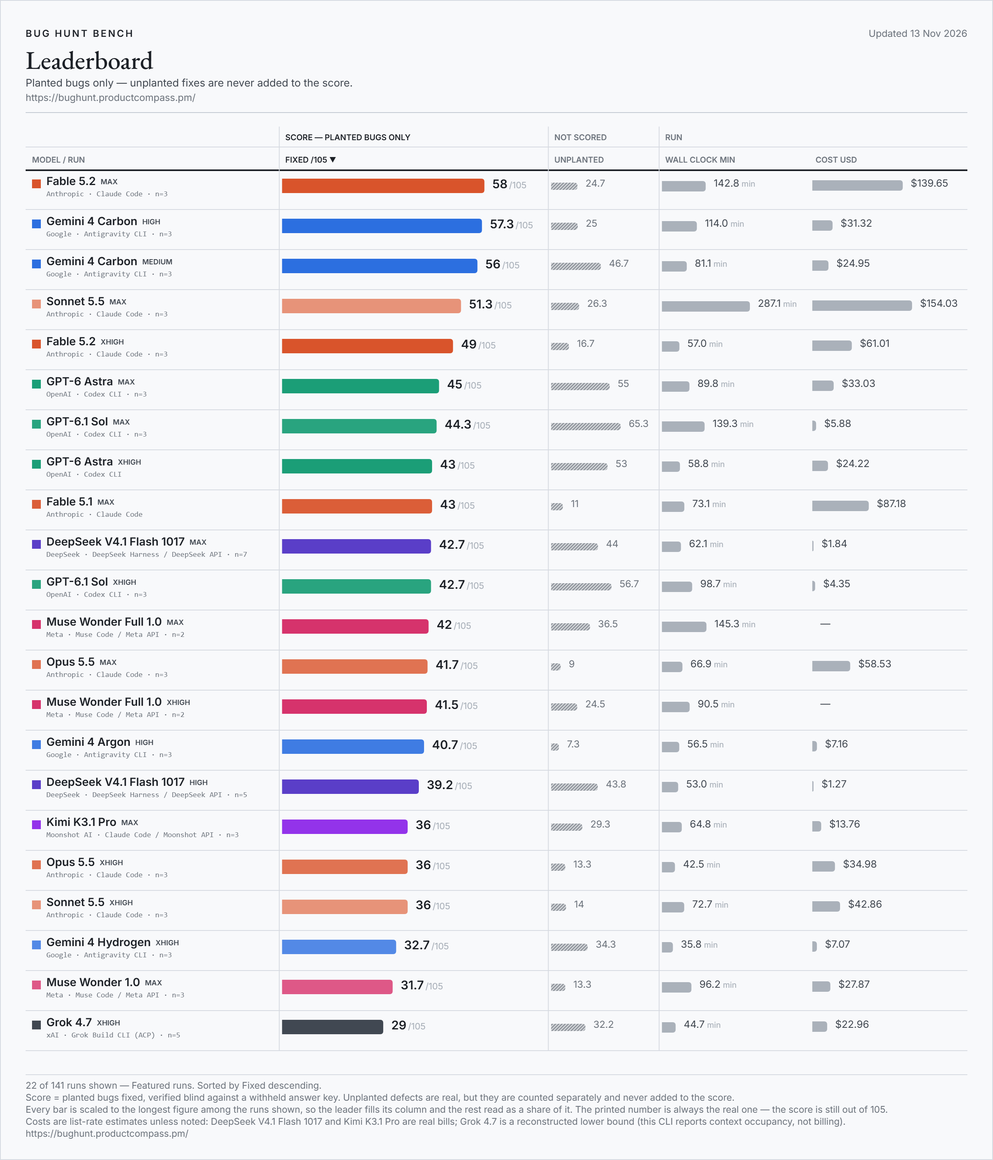
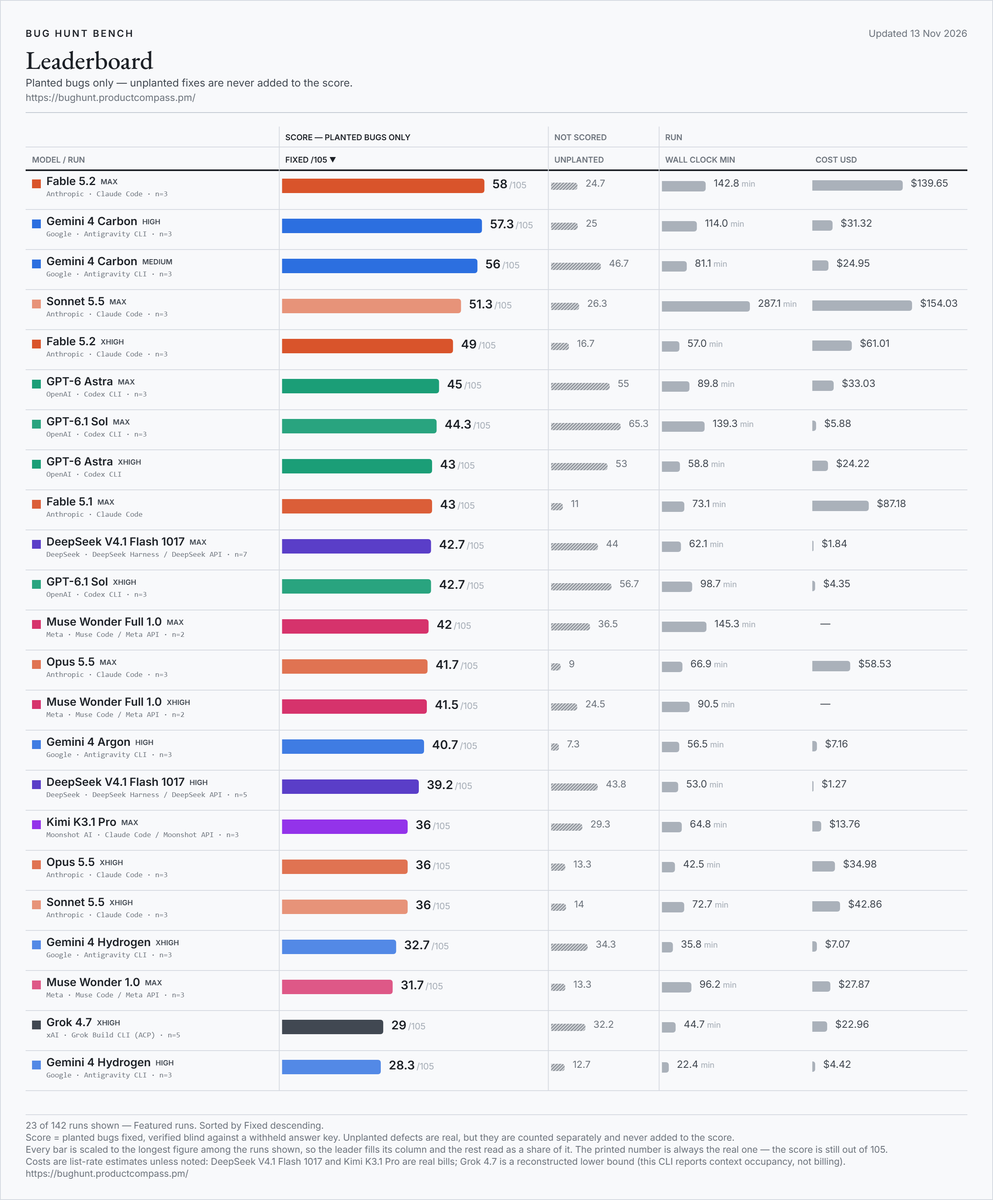
bug hunt bench: Gemini 4 Hydrogen (high effort, Antigravity CLI) - mean of 3 (28.3/105)

Changed region(s): [[0.031, 0.0311, 0.9625, 0.9012], [0.031, 0.9323, 0.7452, 0.9945], [0.8073, 0.6215, 0.9004, 0.9012]]

diff --git a/index.html b/index.html
@@ -22,14 +22,14 @@
 <meta property="og:title" content="Bug Hunt Bench — frontier coding models against real planted bugs">
 <meta property="og:description" content="A blind-graded benchmark of frontier coding models on real bugs planted in two production codebases. The score counts planted bugs only; extra fixes are tracked separately and never added.">
 <meta property="og:url" content="https://bughunt.productcompass.pm/">
-<meta property="og:image" content="https://bughunt.productcompass.pm/og-image.png?v=2026-11-13-add9c0be">
+<meta property="og:image" content="https://bughunt.productcompass.pm/og-image.png?v=2026-11-13-952f5194">
 <meta property="og:image:width" content="1200">
 <meta property="og:image:height" content="630">
 <meta property="og:image:alt" content="Bug Hunt Bench leaderboard">
 <meta name="twitter:card" content="summary_large_image">
 <meta name="twitter:title" content="Bug Hunt Bench — frontier coding models against real planted bugs">
 <meta name="twitter:description" content="A blind-graded benchmark of frontier coding models on real bugs planted in two production codebases. The score counts planted bugs only.">
-<meta name="twitter:image" content="https://bughunt.productcompass.pm/og-image.png?v=2026-11-13-add9c0be">
+<meta name="twitter:image" content="https://bughunt.productcompass.pm/og-image.png?v=2026-11-13-952f5194">
 <meta name="twitter:creator" content="@PawelHuryn">
 
 <link rel="icon" href="/assets/favicon.svg" type="image/svg+xml">

diff --git a/method.html b/method.html
@@ -20,14 +20,14 @@
 <meta property="og:title" content="Method, caveats and definitions — Bug Hunt Bench">
 <meta property="og:description" content="How Bug Hunt Bench is run and graded, what the board cannot tell you, and what every column on it means.">
 <meta property="og:url" content="https://bughunt.productcompass.pm/method">
-<meta property="og:image" content="https://bughunt.productcompass.pm/og-image.png?v=2026-11-13-add9c0be">
+<meta property="og:image" content="https://bughunt.productcompass.pm/og-image.png?v=2026-11-13-952f5194">
 <meta property="og:image:width" content="1200">
 <meta property="og:image:height" content="630">
 <meta property="og:image:alt" content="Bug Hunt Bench leaderboard">
 <meta name="twitter:card" content="summary_large_image">
 <meta name="twitter:title" content="Method, caveats and definitions — Bug Hunt Bench">
 <meta name="twitter:description" content="How Bug Hunt Bench is run and graded, what the board cannot tell you, and what every column on it means.">
-<meta name="twitter:image" content="https://bughunt.productcompass.pm/og-image.png?v=2026-11-13-add9c0be">
+<meta name="twitter:image" content="https://bughunt.productcompass.pm/og-image.png?v=2026-11-13-952f5194">
 <meta name="twitter:creator" content="@PawelHuryn">
 
 <link rel="icon" href="/assets/favicon.svg" type="image/svg+xml">

diff --git a/README.md b/README.md
@@ -7,9 +7,9 @@
 If the numbers save you a benchmark run of your own, **star this repo** — that is what keeps the bench findable, and new models are added as they ship.
 
 <!-- leaderboard:start -->
-![Bug Hunt Bench leaderboard, the featured runs, updated Nov 13, 2026](assets/leaderboard.png?v=2026-11-13-f5614375)
+![Bug Hunt Bench leaderboard, the featured runs, updated Nov 13, 2026](assets/leaderboard.png?v=2026-11-13-cc1ffa5a)
 
-**Updated Nov 13, 2026 · 216 rows from 329 scored runs · 52 models · 23 of 105 bugs have never been fixed by any model.**
+**Updated Nov 13, 2026 · 217 rows from 332 scored runs · 52 models · 23 of 105 bugs have never been fixed by any model.**
 
 **Current leader:** Fable 5.2 at `max` effort — **58 / 105** (23/45 on repo 1, 35/60 on repo 2).
 
@@ -76,88 +76,89 @@ If the numbers save you a benchmark run of your own, **star this repo** — that
 | 57 | Fable 5.1 | Claude Code | xhigh | 1 | **29** | 13 | 16 | 4 | 60 min | $53.61 | 2026-09-10 |
 | 58 | Fable 5 | Claude Code | max | 1 | **29** | 12 | 17 | 5 | 57 min | $112.40 | 2026-08-01 |
 | 59 | Grok 4.6 | Grok Build CLI (ACP) | xhigh | 3 | **28.7** | 11.7 | 17 | 18 | 43 min | $18.60 floor | 2026-09-14 |
-| 60 | GPT-6 Astra | Codex CLI | low | 1 | **27** | 18 | 9 | 25 | 32 min | $11.69 | 2026-09-05 |
-| 61 | Opus 5 | Claude Code | max | 1 | **27** | 13 | 14 | 2 | 60 min | $54.94 | 2026-08-01 |
-| 62 | Grok 4.7 | Grok Build CLI (ACP) | medium | 3 | **26.7** | 12 | 14.7 | 22.7 | 31 min | $16.76 floor | 2026-09-21 |
-| 63 | Qwen3.8-Flash | Claude Code / Alibaba API | max | 1 | **26** | 13 | 13 | 7 | 97 min | $1.81 | 2026-09-11 |
-| 64 | Opus 5 | Claude Code | xhigh | 1 | **26** | 14 | 12 | 3 | 50 min | $63.25 | 2026-08-28 |
-| 65 | Qwen3.8-Max | Claude Code / Alibaba API | max | 3 | **25.7** | 12.3 | 13.3 | 7 | 117 min | $26.76 | 2026-09-15 |
-| 66 | GPT-6 Sol | Codex CLI | xhigh | 1 | **25** | 10 | 15 | 24 | 51 min | $7.67 | 2026-09-23 |
-| 67 | Opus 5 | Claude Code | medium | 1 | **24** | 11 | 13 | 4 | 30 min | $37.40 | 2026-08-27 |
-| 68 | Fable 5 | Claude Code | high | 1 | **24** | 9 | 15 | 3 | 31 min | $74.52 | 2026-07-26 |
-| 69 | MiMo-V2.6-Flash | Claude Code / OpenRouter | default | 3 | **23.3** | 8 | 15.3 | 7.3 | 71 min | $0.49 bill | 2026-09-22 |
-| 70 | Sonnet 5.5 | Claude Code | medium | 3 | **23.3** | 8.7 | 14.7 | 8.7 | 17 min | $11.11 | 2026-09-30 |
-| 71 | Qwen3.8-Flash | Claude Code / Alibaba API | low | 1 | **23** | 11 | 12 | 7 | 98 min | $1.37 | 2026-09-11 |
-| 72 | GPT-5.6 Luna | Codex CLI | xhigh | 1 | **23** | 10 | 13 | 53 | 136 min | $2.50 | 2026-08-28 |
-| 73 | Grok 4.6 | Grok Build CLI (ACP) | high | 1 | **23** | 7 | 16 | 16 | 33 min | $15.73 floor | 2026-08-28 |
-| 74 | MiMo-V2.6-Pro | Claude Code / OpenRouter | default | 3 | **22.7** | 11.3 | 11.3 | 5.3 | 91 min | $0.86 bill | 2026-09-22 |
-| 75 | GPT-6.1 Sol | Codex CLI | low | 2 | **22.5** | 11.5 | 11 | 24 | 25 min | $1.34 | 2026-10-01 |
-| 76 | Opus 5.5 | Claude Code | low | 3 | **22.3** | 11.3 | 11 | 9.7 | 12 min | $8.34 | 2026-09-23 |
-| 77 | Grok 4.6 | Grok Build CLI (ACP) | medium | 1 | **22** | 9 | 13 | 11 | 26 min | $5.80 floor | 2026-08-28 |
-| 78 | Gemini 3.7 Flash | Gemini CLI (retired) + model-pinning gateway | high | 1 | **22** | 8 | 14 | 4 | 97 min | $8.43 | 2026-08-24 |
-| 79 | DeepSeek V4.1 Flash | Claude Code / DeepSeek API | max | 3 | **21.7** | 11.3 | 10.3 | 6.7 | 56 min | $0.78 bill | 2026-09-15 |
-| 80 | Haiku 5.5 | Claude Code | max | 2 | **21.5** | 10 | 11.5 | 9 | 32 min | $5.83 | 2026-10-07 |
-| 81 | Fable 5.1 | Claude Code | medium | 1 | **21** | 8 | 13 | 3 | 23 min | $23.73 | 2026-09-10 |
-| 82 | Kimi K3 | Claude Code / OpenRouter | default | 1 | **21** | 4 | 17 | 6 | 108 min | $25.27 | 2026-07-26 |
-| 83 | Opus 5 | Claude Code | high | 1 | **21** | 11 | 10 | 6 | 37 min | $41.51 | 2026-07-26 |
-| 84 | Muse Spark 1.3 | Muse Code / Meta API | xhigh | 3 | **20.3** | 8 | 12.3 | 13.3 | 64 min | $13.71 | 2026-09-14 |
-| 85 | GPT-6 Sol | Codex CLI | high | 1 | **20** | 10 | 10 | 15 | 34 min | $4.16 | 2026-09-23 |
-| 86 | GPT-5.6 Terra | Codex CLI | xhigh | 1 | **20** | 9 | 11 | 29 | 57 min | $8.98 | 2026-08-28 |
-| 87 | Grok 4.7 | Grok Build CLI (ACP) | high | 3 | **19.3** | 8.7 | 10.7 | 15.7 | 38 min | $12.29 floor | 2026-09-21 |
-| 88 | DeepSeek V4.1 Flash | Claude Code / DeepSeek API | high | 1 | **19** | 9 | 10 | 4 | 26 min | $0.31 bill | 2026-09-10 |
-| 89 | Sonnet 5.5 | Claude Code | low | 3 | **19** | 6.7 | 12.3 | 8 | 8 min | $5.73 | 2026-09-30 |
-| 90 | GLM-5.3 | Claude Code / Z.ai API | max | 1 | **19** | 9 | 10 | 2 | 40 min | $15.93 | 2026-09-10 |
-| 91 | Muse Spark 1.3 | Muse Code / Meta API | high | 3 | **18.7** | 8.7 | 10 | 19.3 | 76 min | $12.94 | 2026-09-14 |
-| 92 | GPT-6 Luna | Codex CLI | max | 3 | **18.3** | 6.3 | 12 | 22.7 | 99 min | $0.52 | 2026-09-23 |
-| 93 | Haiku 5.5 | Claude Code | xhigh | 3 | **18.3** | 9 | 9.3 | 6.7 | 24 min | $4.80 | 2026-10-07 |
-| 94 | MiMo-V2.6-Pro | Claude Code / Xiaomi first-party | enabled | 1 | **18** | 9 | 9 | 4 | 75 min | $0.59 | 2026-09-22 |
-| 95 | Hy4 Preview | Claude Code / OpenRouter | default | 1 | **18** | 9 | 9 | 2 | 68 min | $3.13 bill | 2026-08-28 |
-| 96 | GPT-5.6 Terra | Codex CLI | high | 1 | **18** | 7 | 11 | 17 | 28 min | $5.89 | 2026-08-27 |
-| 97 | Gemini 3.8 Flash | Antigravity CLI | high | 3 | **18** | 6.7 | 11.3 | 4 | 39 min | $11.03 | 2026-09-15 |
-| 98 | GLM-5.3 Flash | Claude Code / Z.ai API | max | 3 | **17.7** | 9.3 | 8.3 | 3.3 | 63 min | $1.03 | 2026-09-15 |
-| 99 | Grok 4.5 | Grok Build CLI (ACP) | high | 1 | **17** | 5 | 12 | 10 | 28 min | $8.50 floor | 2026-08-06 |
-| 100 | Muse Spark 1.2 | Claude Code / Meta API | xhigh | 1 | **17** | 6 | 11 | 12 | 36 min | $13.99 | 2026-08-06 |
-| 101 | Ox Alpha (stealth) | Claude Code / OpenRouter | default | 1 | **16** | 8 | 8 | 3 | 59 min | free | 2026-08-25 |
-| 102 | GLM-5.3 Flash | Claude Code / Z.ai API | high | 1 | **16** | 9 | 7 | 4 | 62 min | $0.94 | 2026-09-13 |
-| 103 | DeepSeek V4-Pro | Claude Code / DeepSeek API | max | 1 | **16** | 8 | 8 | 4 | 37 min | $1.89 bill | 2026-09-10 |
-| 104 | Haiku 5.5 | Claude Code | high | 2 | **16** | 5 | 11 | 4 | 19 min | $3.56 | 2026-10-07 |
-| 105 | Gemini 3.7 Flash | Antigravity CLI | high | 1 | **16** | 4 | 12 | 2 | 23 min | $6.36 | 2026-08-28 |
-| 106 | Grok 4.7 | Grok Build CLI (ACP) | low | 3 | **15.7** | 10.3 | 5.3 | 18.3 | 22 min | $9.36 floor | 2026-09-21 |
-| 107 | GPT-5.6 Terra | Codex CLI | medium | 1 | **15** | 4 | 11 | 6 | 20 min | $3.87 | 2026-08-27 |
-| 108 | Grok 4.6 | Grok Build CLI (ACP) | low | 1 | **15** | 6 | 9 | 9 | 18 min | $4.14 floor | 2026-08-27 |
-| 109 | Qwen3.8-27B | Claude Code / Alibaba API | xhigh | 3 | **15** | 5.7 | 9.3 | 2.3 | 57 min | $5.55 | 2026-09-15 |
-| 110 | Mistral Large 4 | Claude Code / OpenRouter | high | 3 | **15** | 5 | 10 | 3.3 | 111 min | $11.95 bill | 2026-10-07 |
-| 111 | Opus 4.8 | Claude Code | max | 1 | **15** | 6 | 9 | 3 | 109 min | $58.11 | 2026-09-10 |
-| 112 | GPT-6 Luna | Codex CLI | xhigh | 1 | **14** | 4 | 10 | 12 | 57 min | $0.39 | 2026-09-23 |
-| 113 | DeepSeek V4-Flash | Claude Code / OpenRouter | default | 1 | **14** | 6 | 8 | 0 | 48 min | $1.52 bill | 2026-08-01 |
-| 114 | GPT-6 Sol | Codex CLI | medium | 1 | **14** | 3 | 11 | 13 | 24 min | $2.39 | 2026-09-23 |
-| 115 | GPT-5.6 Luna | Codex CLI | high | 1 | **13** | 5 | 8 | 22 | 64 min | $0.57 | 2026-07-31 |
-| 116 | GLM-5.3 Flash | Claude Code / OpenRouter | default | 1 | **13** | 6 | 7 | 4 | 57 min | $0.79 bill | 2026-08-27 |
-| 117 | DeepSeek V4-Pro | Claude Code / DeepSeek API | high | 1 | **13** | 4 | 9 | 1 | 27 min | $1.08 bill | 2026-09-10 |
-| 118 | Muse Spark 1.3 | Muse Code / Meta API | medium | 3 | **13** | 5.3 | 7.7 | 17.3 | 58 min | $9.24 | 2026-09-14 |
-| 119 | Haiku 5.5 | Claude Code | medium | 1 | **12** | 5 | 7 | 4 | 16 min | $2.66 | 2026-10-08 |
-| 120 | GPT-6.1 Terra | Codex CLI | xhigh | 3 | **11.3** | 5 | 6.3 | 17 | 16 min | $0.75 | 2026-10-26 |
-| 121 | Haiku 5.5 | Claude Code | low | 1 | **11** | 4 | 7 | 2 | 9 min | $1.61 | 2026-10-08 |
-| 122 | Qwen3.8-27B 8-bit | Claude Code / OpenRouter | default | 3 | **10.7** | 3.7 | 7 | 1.7 | 57 min | $2.97 bill | 2026-09-16 |
-| 123 | GPT-6.1 Terra | Codex CLI | high | 3 | **9.7** | 4.3 | 5.3 | 6.7 | 13 min | $0.56 | 2026-10-26 |
-| 124 | Muse Spark 1.3 | Muse Code / Meta API | low | 3 | **9.7** | 5 | 4.7 | 6.7 | 36 min | $5.61 | 2026-09-14 |
-| 125 | GPT-6 Luna | Codex CLI | high | 1 | **9** | 2 | 7 | 9 | 24 min | $0.13 | 2026-09-23 |
-| 126 | GPT-5.6 Luna | Codex CLI | medium | 1 | **9** | 5 | 4 | 5 | 15 min | $0.33 | 2026-08-27 |
-| 127 | GLM-5.3 Flash | Claude Code / Z.ai API | low | 1 | **9** | 7 | 2 | 4 | 29 min | $0.42 | 2026-09-13 |
-| 128 | Sonnet 5 | Claude Code | high | 1 | **9** | 1 | 8 | 4 | 33 min | $11.38 | 2026-07-26 |
-| 129 | Sonnet 5 | Claude Code | max | 1 | **9** | 3 | 6 | 3 | 61 min | $17.96 | 2026-09-10 |
-| 130 | Opus 4.8 | Claude Code | high | 1 | **9** | 2 | 7 | 1 | 35 min | $21.30 | 2026-07-26 |
-| 131 | GPT-6.1 Terra | Codex CLI | medium | 3 | **7.3** | 3.7 | 3.7 | 7.3 | 10 min | $0.31 | 2026-10-27 |
-| 132 | GPT-6.1 Terra | Codex CLI | low | 3 | **6** | 2.7 | 3.3 | 5 | 10 min | $0.30 | 2026-10-27 |
-| 133 | GPT-6 Sol | Codex CLI | low | 1 | **6** | 3 | 3 | 5 | 11 min | $1.08 | 2026-09-23 |
-| 134 | GPT-6 Luna | Codex CLI | medium | 1 | **4** | 2 | 2 | 0 | 9 min | $0.06 | 2026-09-23 |
-| 135 | GPT-5.6 Luna | Codex CLI | low | 1 | **4** | 0 | 4 | 1 | 6 min | $0.10 | 2026-08-27 |
-| 136 | GPT-6 Luna | Codex CLI | low | 1 | **4** | 1 | 3 | 9 | 19 min | $0.20 | 2026-09-23 |
-| 137 | Gemma 4 31B | Claude Code / OpenRouter | default | 1 | **4** | 1 | 3 | 2 | 222 min | $8.61 bill | 2026-09-16 |
-| 138 | Gemma 4 31B 4-bit | Claude Code / OpenRouter | default | 1 | **3** | 1 | 2 | 2 | 25 min | $0.56 bill | 2026-09-16 |
-| 139 | Haiku 4.5 | Claude Code | default | 2 | **1.5** | 0.5 | 1 | 2.5 | 17 min | $2.22 | 2026-10-08 |
-| 140 | gpt-oss-120b | Claude Code / OpenRouter | default | 3 | **0** | 0 | 0 | 0.3 | 4 min | $0.11 bill | 2026-09-15 |
-| 141 | gpt-oss-20b | Claude Code / OpenRouter | default | 3 | **0** | 0 | 0 | 0 | 7 min | $0.11 bill | 2026-09-15 |
+| 60 | Gemini 4 Hydrogen | Antigravity CLI | high | 3 | **28.3** | 10 | 18.3 | 12.7 | 22 min | $4.42 | 2026-11-13 |
+| 61 | GPT-6 Astra | Codex CLI | low | 1 | **27** | 18 | 9 | 25 | 32 min | $11.69 | 2026-09-05 |
+| 62 | Opus 5 | Claude Code | max | 1 | **27** | 13 | 14 | 2 | 60 min | $54.94 | 2026-08-01 |
+| 63 | Grok 4.7 | Grok Build CLI (ACP) | medium | 3 | **26.7** | 12 | 14.7 | 22.7 | 31 min | $16.76 floor | 2026-09-21 |
+| 64 | Qwen3.8-Flash | Claude Code / Alibaba API | max | 1 | **26** | 13 | 13 | 7 | 97 min | $1.81 | 2026-09-11 |
+| 65 | Opus 5 | Claude Code | xhigh | 1 | **26** | 14 | 12 | 3 | 50 min | $63.25 | 2026-08-28 |
+| 66 | Qwen3.8-Max | Claude Code / Alibaba API | max | 3 | **25.7** | 12.3 | 13.3 | 7 | 117 min | $26.76 | 2026-09-15 |
+| 67 | GPT-6 Sol | Codex CLI | xhigh | 1 | **25** | 10 | 15 | 24 | 51 min | $7.67 | 2026-09-23 |
+| 68 | Opus 5 | Claude Code | medium | 1 | **24** | 11 | 13 | 4 | 30 min | $37.40 | 2026-08-27 |
+| 69 | Fable 5 | Claude Code | high | 1 | **24** | 9 | 15 | 3 | 31 min | $74.52 | 2026-07-26 |
+| 70 | MiMo-V2.6-Flash | Claude Code / OpenRouter | default | 3 | **23.3** | 8 | 15.3 | 7.3 | 71 min | $0.49 bill | 2026-09-22 |
+| 71 | Sonnet 5.5 | Claude Code | medium | 3 | **23.3** | 8.7 | 14.7 | 8.7 | 17 min | $11.11 | 2026-09-30 |
+| 72 | Qwen3.8-Flash | Claude Code / Alibaba API | low | 1 | **23** | 11 | 12 | 7 | 98 min | $1.37 | 2026-09-11 |
+| 73 | GPT-5.6 Luna | Codex CLI | xhigh | 1 | **23** | 10 | 13 | 53 | 136 min | $2.50 | 2026-08-28 |
+| 74 | Grok 4.6 | Grok Build CLI (ACP) | high | 1 | **23** | 7 | 16 | 16 | 33 min | $15.73 floor | 2026-08-28 |
+| 75 | MiMo-V2.6-Pro | Claude Code / OpenRouter | default | 3 | **22.7** | 11.3 | 11.3 | 5.3 | 91 min | $0.86 bill | 2026-09-22 |
+| 76 | GPT-6.1 Sol | Codex CLI | low | 2 | **22.5** | 11.5 | 11 | 24 | 25 min | $1.34 | 2026-10-01 |
+| 77 | Opus 5.5 | Claude Code | low | 3 | **22.3** | 11.3 | 11 | 9.7 | 12 min | $8.34 | 2026-09-23 |
+| 78 | Grok 4.6 | Grok Build CLI (ACP) | medium | 1 | **22** | 9 | 13 | 11 | 26 min | $5.80 floor | 2026-08-28 |
+| 79 | Gemini 3.7 Flash | Gemini CLI (retired) + model-pinning gateway | high | 1 | **22** | 8 | 14 | 4 | 97 min | $8.43 | 2026-08-24 |
+| 80 | DeepSeek V4.1 Flash | Claude Code / DeepSeek API | max | 3 | **21.7** | 11.3 | 10.3 | 6.7 | 56 min | $0.78 bill | 2026-09-15 |
+| 81 | Haiku 5.5 | Claude Code | max | 2 | **21.5** | 10 | 11.5 | 9 | 32 min | $5.83 | 2026-10-07 |
+| 82 | Fable 5.1 | Claude Code | medium | 1 | **21** | 8 | 13 | 3 | 23 min | $23.73 | 2026-09-10 |
+| 83 | Kimi K3 | Claude Code / OpenRouter | default | 1 | **21** | 4 | 17 | 6 | 108 min | $25.27 | 2026-07-26 |
+| 84 | Opus 5 | Claude Code | high | 1 | **21** | 11 | 10 | 6 | 37 min | $41.51 | 2026-07-26 |
+| 85 | Muse Spark 1.3 | Muse Code / Meta API | xhigh | 3 | **20.3** | 8 | 12.3 | 13.3 | 64 min | $13.71 | 2026-09-14 |
+| 86 | GPT-6 Sol | Codex CLI | high | 1 | **20** | 10 | 10 | 15 | 34 min | $4.16 | 2026-09-23 |
+| 87 | GPT-5.6 Terra | Codex CLI | xhigh | 1 | **20** | 9 | 11 | 29 | 57 min | $8.98 | 2026-08-28 |
+| 88 | Grok 4.7 | Grok Build CLI (ACP) | high | 3 | **19.3** | 8.7 | 10.7 | 15.7 | 38 min | $12.29 floor | 2026-09-21 |
+| 89 | DeepSeek V4.1 Flash | Claude Code / DeepSeek API | high | 1 | **19** | 9 | 10 | 4 | 26 min | $0.31 bill | 2026-09-10 |
+| 90 | Sonnet 5.5 | Claude Code | low | 3 | **19** | 6.7 | 12.3 | 8 | 8 min | $5.73 | 2026-09-30 |
+| 91 | GLM-5.3 | Claude Code / Z.ai API | max | 1 | **19** | 9 | 10 | 2 | 40 min | $15.93 | 2026-09-10 |
+| 92 | Muse Spark 1.3 | Muse Code / Meta API | high | 3 | **18.7** | 8.7 | 10 | 19.3 | 76 min | $12.94 | 2026-09-14 |
+| 93 | GPT-6 Luna | Codex CLI | max | 3 | **18.3** | 6.3 | 12 | 22.7 | 99 min | $0.52 | 2026-09-23 |
+| 94 | Haiku 5.5 | Claude Code | xhigh | 3 | **18.3** | 9 | 9.3 | 6.7 | 24 min | $4.80 | 2026-10-07 |
+| 95 | MiMo-V2.6-Pro | Claude Code / Xiaomi first-party | enabled | 1 | **18** | 9 | 9 | 4 | 75 min | $0.59 | 2026-09-22 |
+| 96 | Hy4 Preview | Claude Code / OpenRouter | default | 1 | **18** | 9 | 9 | 2 | 68 min | $3.13 bill | 2026-08-28 |
+| 97 | GPT-5.6 Terra | Codex CLI | high | 1 | **18** | 7 | 11 | 17 | 28 min | $5.89 | 2026-08-27 |
+| 98 | Gemini 3.8 Flash | Antigravity CLI | high | 3 | **18** | 6.7 | 11.3 | 4 | 39 min | $11.03 | 2026-09-15 |
+| 99 | GLM-5.3 Flash | Claude Code / Z.ai API | max | 3 | **17.7** | 9.3 | 8.3 | 3.3 | 63 min | $1.03 | 2026-09-15 |
+| 100 | Grok 4.5 | Grok Build CLI (ACP) | high | 1 | **17** | 5 | 12 | 10 | 28 min | $8.50 floor | 2026-08-06 |
+| 101 | Muse Spark 1.2 | Claude Code / Meta API | xhigh | 1 | **17** | 6 | 11 | 12 | 36 min | $13.99 | 2026-08-06 |
+| 102 | Ox Alpha (stealth) | Claude Code / OpenRouter | default | 1 | **16** | 8 | 8 | 3 | 59 min | free | 2026-08-25 |
+| 103 | GLM-5.3 Flash | Claude Code / Z.ai API | high | 1 | **16** | 9 | 7 | 4 | 62 min | $0.94 | 2026-09-13 |
+| 104 | DeepSeek V4-Pro | Claude Code / DeepSeek API | max | 1 | **16** | 8 | 8 | 4 | 37 min | $1.89 bill | 2026-09-10 |
+| 105 | Haiku 5.5 | Claude Code | high | 2 | **16** | 5 | 11 | 4 | 19 min | $3.56 | 2026-10-07 |
+| 106 | Gemini 3.7 Flash | Antigravity CLI | high | 1 | **16** | 4 | 12 | 2 | 23 min | $6.36 | 2026-08-28 |
+| 107 | Grok 4.7 | Grok Build CLI (ACP) | low | 3 | **15.7** | 10.3 | 5.3 | 18.3 | 22 min | $9.36 floor | 2026-09-21 |
+| 108 | GPT-5.6 Terra | Codex CLI | medium | 1 | **15** | 4 | 11 | 6 | 20 min | $3.87 | 2026-08-27 |
+| 109 | Grok 4.6 | Grok Build CLI (ACP) | low | 1 | **15** | 6 | 9 | 9 | 18 min | $4.14 floor | 2026-08-27 |
+| 110 | Qwen3.8-27B | Claude Code / Alibaba API | xhigh | 3 | **15** | 5.7 | 9.3 | 2.3 | 57 min | $5.55 | 2026-09-15 |
+| 111 | Mistral Large 4 | Claude Code / OpenRouter | high | 3 | **15** | 5 | 10 | 3.3 | 111 min | $11.95 bill | 2026-10-07 |
+| 112 | Opus 4.8 | Claude Code | max | 1 | **15** | 6 | 9 | 3 | 109 min | $58.11 | 2026-09-10 |
+| 113 | GPT-6 Luna | Codex CLI | xhigh | 1 | **14** | 4 | 10 | 12 | 57 min | $0.39 | 2026-09-23 |
+| 114 | DeepSeek V4-Flash | Claude Code / OpenRouter | default | 1 | **14** | 6 | 8 | 0 | 48 min | $1.52 bill | 2026-08-01 |
+| 115 | GPT-6 Sol | Codex CLI | medium | 1 | **14** | 3 | 11 | 13 | 24 min | $2.39 | 2026-09-23 |
+| 116 | GPT-5.6 Luna | Codex CLI | high | 1 | **13** | 5 | 8 | 22 | 64 min | $0.57 | 2026-07-31 |
+| 117 | GLM-5.3 Flash | Claude Code / OpenRouter | default | 1 | **13** | 6 | 7 | 4 | 57 min | $0.79 bill | 2026-08-27 |
+| 118 | DeepSeek V4-Pro | Claude Code / DeepSeek API | high | 1 | **13** | 4 | 9 | 1 | 27 min | $1.08 bill | 2026-09-10 |
+| 119 | Muse Spark 1.3 | Muse Code / Meta API | medium | 3 | **13** | 5.3 | 7.7 | 17.3 | 58 min | $9.24 | 2026-09-14 |
+| 120 | Haiku 5.5 | Claude Code | medium | 1 | **12** | 5 | 7 | 4 | 16 min | $2.66 | 2026-10-08 |
+| 121 | GPT-6.1 Terra | Codex CLI | xhigh | 3 | **11.3** | 5 | 6.3 | 17 | 16 min | $0.75 | 2026-10-26 |
+| 122 | Haiku 5.5 | Claude Code | low | 1 | **11** | 4 | 7 | 2 | 9 min | $1.61 | 2026-10-08 |
+| 123 | Qwen3.8-27B 8-bit | Claude Code / OpenRouter | default | 3 | **10.7** | 3.7 | 7 | 1.7 | 57 min | $2.97 bill | 2026-09-16 |
+| 124 | GPT-6.1 Terra | Codex CLI | high | 3 | **9.7** | 4.3 | 5.3 | 6.7 | 13 min | $0.56 | 2026-10-26 |
+| 125 | Muse Spark 1.3 | Muse Code / Meta API | low | 3 | **9.7** | 5 | 4.7 | 6.7 | 36 min | $5.61 | 2026-09-14 |
+| 126 | GPT-6 Luna | Codex CLI | high | 1 | **9** | 2 | 7 | 9 | 24 min | $0.13 | 2026-09-23 |
+| 127 | GPT-5.6 Luna | Codex CLI | medium | 1 | **9** | 5 | 4 | 5 | 15 min | $0.33 | 2026-08-27 |
+| 128 | GLM-5.3 Flash | Claude Code / Z.ai API | low | 1 | **9** | 7 | 2 | 4 | 29 min | $0.42 | 2026-09-13 |
+| 129 | Sonnet 5 | Claude Code | high | 1 | **9** | 1 | 8 | 4 | 33 min | $11.38 | 2026-07-26 |
+| 130 | Sonnet 5 | Claude Code | max | 1 | **9** | 3 | 6 | 3 | 61 min | $17.96 | 2026-09-10 |
+| 131 | Opus 4.8 | Claude Code | high | 1 | **9** | 2 | 7 | 1 | 35 min | $21.30 | 2026-07-26 |
+| 132 | GPT-6.1 Terra | Codex CLI | medium | 3 | **7.3** | 3.7 | 3.7 | 7.3 | 10 min | $0.31 | 2026-10-27 |
+| 133 | GPT-6.1 Terra | Codex CLI | low | 3 | **6** | 2.7 | 3.3 | 5 | 10 min | $0.30 | 2026-10-27 |
+| 134 | GPT-6 Sol | Codex CLI | low | 1 | **6** | 3 | 3 | 5 | 11 min | $1.08 | 2026-09-23 |
+| 135 | GPT-6 Luna | Codex CLI | medium | 1 | **4** | 2 | 2 | 0 | 9 min | $0.06 | 2026-09-23 |
+| 136 | GPT-5.6 Luna | Codex CLI | low | 1 | **4** | 0 | 4 | 1 | 6 min | $0.10 | 2026-08-27 |
+| 137 | GPT-6 Luna | Codex CLI | low | 1 | **4** | 1 | 3 | 9 | 19 min | $0.20 | 2026-09-23 |
+| 138 | Gemma 4 31B | Claude Code / OpenRouter | default | 1 | **4** | 1 | 3 | 2 | 222 min | $8.61 bill | 2026-09-16 |
+| 139 | Gemma 4 31B 4-bit | Claude Code / OpenRouter | default | 1 | **3** | 1 | 2 | 2 | 25 min | $0.56 bill | 2026-09-16 |
+| 140 | Haiku 4.5 | Claude Code | default | 2 | **1.5** | 0.5 | 1 | 2.5 | 17 min | $2.22 | 2026-10-08 |
+| 141 | gpt-oss-120b | Claude Code / OpenRouter | default | 3 | **0** | 0 | 0 | 0.3 | 4 min | $0.11 bill | 2026-09-15 |
+| 142 | gpt-oss-20b | Claude Code / OpenRouter | default | 3 | **0** | 0 | 0 | 0 | 7 min | $0.11 bill | 2026-09-15 |
 
 **Runs** is how many independent runs the row is built from. A row at `1` is a single measurement. A row above `1` is the MEAN of that many runs of an identical configuration - same model, prompt, harness, route, effort flag and judge - and every count, wall and cost on it is averaged, which is why those rows carry a decimal. The individual runs behind a mean are published in full in the metrics CSVs, so the spread stays auditable: this board has measured a 9-point range of 105 on a fixed configuration, so a single run is not a measurement of a model, and two rows at `1` that differ by a few points may not differ at all.
 

diff --git a/results/run-notes.md b/results/run-notes.md
@@ -2,7 +2,7 @@
 
 Every row on the board, with the note and caveat it carries. Generated from `data/benchmark.json` by `bench_golive.py` - do not edit by hand.
 
-Updated Nov 13, 2026 · 216 rows from 329 scored runs. Superseded rows are listed last.
+Updated Nov 13, 2026 · 217 rows from 332 scored runs. Superseded rows are listed last.
 
 ## Fable 5.2 (max effort) - mean of 3
 
@@ -437,6 +437,14 @@ The row that completes Fable 5.1's dial, and the one that shows the dial does no
 **Caveat.** A mean of three runs, not a single measurement; the three span 27 to 30. This row SUPERSEDES the single-run sequential row (27/105) published 2026-08-28, which was the LOWEST of the three. Every figure on this row is a MEAN of the three runs, carried to one decimal - 28.7 of 105, not a 29 that happens to be an average. Cost is a reconstructed FLOOR rather than a bill, and the three floors span 16.96 to 20.88 dollars, so the cost column here is a mean of three estimates and not a price.
 
 The FIRST configuration outside Meta's effort dial to be run three times, published as the MEAN OF THREE INDEPENDENT RUNS. Runs scored 27, 30 and 29 of 105 (repo 1: 8, 14, 13 - repo 2: 19, 16, 16). Mean 28.7, range 3. *** WHAT THIS CORRECTS IS AN INFERENCE, NOT A NUMBER *** The single run this replaces scored 27, and its note read that as settled because the 2026-08-12 concurrent-legs run had also scored 27 - 'n=2 agreement'. Two further sequential runs came in at 30 and 29. The 27 was correct for the run that produced it; what does not survive is treating a pair of agreeing draws as a measurement of the rung. Both 27s sit at the bottom of the range this configuration actually spans. *** WHERE THE MOVEMENT IS, AND WHAT THAT IS WORTH *** The three totals span 3 points, but the per-repo legs span more: repo 1 scored 8, 14 and 13 of 45, repo 2 scored 19, 16 and 16 of 60. The repo-1 range alone is 6 points on a 45-bug repo, wider than the range of the totals it feeds. The legs moved in opposite directions and the totals landed close together. That is an OBSERVATION about three runs and nothing more - it is not a mechanism, and it is not a claim that totals are steadier than legs. Three draws cannot establish that, and this pattern arises from chance often enough to be unremarkable. *** RECEIPTS *** All six legs exited 0. Per-leg (repo 1 / repo 2): wall 19.1/22.0, 18.8/23.5 and 23.9/21.9 minutes; floor 6.84/10.12, 9.38/8.59 and 13.57/7.30 dollars. Genuine extras 16, 16 and 22. Claimed-only 1, 0 and 1, all on repo 1. COST IS A FLOOR, NOT A BILL: the grok CLI reports context occupancy rather than cumulative usage, so every grok row on this board is reconstructed from the CLI's own session logs at xAI list rates. The three floors are 16.96, 17.96 and 20.88 dollars and this row shows their mean. That spread is not pricing noise - the reconstruction scales with how many inference requests a run made (106, 118 and 128 across the three), so it tracks real differences in how much work the agent did. SEQUENTIAL legs throughout - one repo at a time, one machine, one key - which is what 'seq' means in the name and why this wall is comparable to the rest of the board. Effort verified active by a fresh zero-token ACP readback before each launch. Judge: Codex gpt-5.5 on all six legs.
+
+## Gemini 4 Hydrogen (high effort, Antigravity CLI) - mean of 3
+
+**28.3 / 105** · repo 1 10/45 · repo 2 18.3/60 · 12.7 unplanted · 22.4 min · $4.42 · `high` · Antigravity CLI · mean of 3 runs · 2026-11-13
+
+**Caveat.** Three runs scoring 27, 30 and 28 of 105 - spread 3, all on Google AI Ultra, six legs at once. Judged by Codex gpt-6.1-sol, like the xhigh row. Cost is a list estimate from the CLI's own token counts and likely reads low.
+
+Google's Gemini 4 Hydrogen at thinking level high - one tier below its xhigh ceiling - through the Antigravity CLI 1.5.8, signed in with a Google AI Ultra subscription instead of an API key, published as the MEAN OF THREE INDEPENDENT RUNS. Runs scored 27, 30 and 28 of 105 (repo 1: 10, 10, 10 - repo 2: 17, 20, 18). Mean 28.3, range 3. *** SET UP EXACTLY AS THE XHIGH ROW *** same CLI, prompt, timeout and blind judge; only the model slug differs (gemini-4-hydrogen-high, reported served on every leg). All three runs ran at once (six legs) on the laptop. *** AGAINST XHIGH *** Gemini 4 Hydrogen (xhigh effort, Antigravity CLI) - mean of 3 is 32.7, but its runs were 43 on Google AI Pro and 27 and 28 on Google AI Ultra. On the same plan as this row xhigh's two runs average 27.5 against high's 28.3: level, with high cheaper and faster. The xhigh row's lead rests on its single Pro run. *** EFFORT high IS A REAL STEP BELOW xhigh *** on a probe through the same sign-in high thought 5,400 to 6,161 tokens against xhigh's 7,691 to 12,769 (three calls each, no overlap). The CLI talks to Google's own backend on this path, so nothing could be read back on the wire; the served model is the CLI's own report. *** JUDGE *** judged by gpt-6.1-sol, blinded to the arm's identity - the same judge as the xhigh row; not grok-4.7 like the Gemini 4 Carbon rows or gpt-5.5 like the Gemini 4 Argon rows. A model may never judge itself or a sibling. *** WALL, COST AND TURNS *** walls 25.2, 23.1 and 18.8 minutes with six legs sharing the laptop; turns 662, 533 and 564. *** COST *** $4.78, $4.25 and $4.22 per run (mean $4.42), a list estimate, not a bill: the runs used subscription quota. Priced at Google's rate for gemini-4-hydrogen ($1.50 input / $0.075 cached input / $7.50 output per million tokens, thinking billed as output) from the CLI's own token counts, which on the Gemini 4 Argon rows read 10 to 38% below Google's per-call usage - these figures likely read low. *** GENUINE EXTRAS *** 13, 13 and 12 across the runs, never folded into the score. *** CONTEXT REGIME NOT VERIFIABLE *** the Antigravity CLI reports no context accounting. For comparison the board publishes Gemini 4 Argon (high effort, Antigravity CLI) - mean of 3 40.7 and Gemini 4 Carbon (high effort, Antigravity CLI) - mean of 3 57.3 of 105. *** RECEIPTS *** every leg exited 0 with a report written. Every leg shared the laptop with another arm, which the wall marker discloses - scores, tokens and cost are untouched by that, only the clock.
 
 ## GPT-6 Astra (low effort)
 

diff --git a/results/waves.md b/results/waves.md
@@ -4546,3 +4546,19 @@ What it shows. Hydrogen at xhigh averages 32.7 of 105, below Gemini 4 Argon at h
 Three things to read it with. The plan changed between runs: run 1 ran on Google AI Pro, runs 2 and 3 on Google AI Ultra (same sign-in, model, CLI and judge; every leg reported serving gemini-4-hydrogen-xhigh with a similar thinking share). Runs 2 and 3 used fewer tokens and edited less widely; with one Pro run the board cannot separate the plan from run-to-run variance. The judge: Codex (gpt-6.1-sol), blind, because the Grok judge's balance was exhausted - not Grok like the Carbon rows or gpt-5.5 like the Argon rows. The path: the subscription sign-in talks to Google's own backend, so nothing was read back on the wire.
 
 Cost is a list estimate, not a bill: Google's rate for Hydrogen applied to the CLI's own token counts, which on the Argon rows read 10-38% below Google's per-call usage. Featured.
+
+## Gemini 4 Hydrogen — high, mean of 3 (Nov 13)
+
+Google's Gemini 4 Hydrogen at thinking level high, one tier below its xhigh ceiling, set up exactly as the xhigh row (Antigravity CLI 1.5.8 on a Google subscription sign-in, same prompt, timeout and judge). Three runs, all on Google AI Ultra, six legs at once on the laptop.
+
+| Row | Harness | Score | Repo 1 | Repo 2 | Wall | Cost |
+|---|---|---|---|---|---|---|
+| Gemini 4 Hydrogen (high effort, Antigravity CLI) - mean of 3 | Antigravity CLI | **28.3** / 105 | 10.0 / 45 | 18.3 / 60 | 22.4 min | $4.42 |
+| Gemini 4 Hydrogen (xhigh effort, Antigravity CLI) - mean of 3 | Antigravity CLI | 32.7 / 105 | 9.3 / 45 | 23.3 / 60 | 35.8 min | $7.07 |
+| Gemini 4 Argon (high effort, Antigravity CLI) - mean of 3 | Antigravity CLI | 40.7 / 105 | 13 / 45 | 27.7 / 60 | 56.5 min | $7.16 |
+
+Runs: 27, 30 and 28 of 105 (repo 1: 10, 10, 10 - repo 2: 17, 20, 18).
+
+What it shows. High averages 28.3 of 105 with a spread of 3. The xhigh row is 32.7, but its runs were 43 on Google AI Pro and 27 and 28 on Google AI Ultra; on the same plan as this row xhigh averages 27.5, level with high, which costs $4.42 per run against $6.21 for those two xhigh runs and finishes sooner. The xhigh lead on the board rests on one Pro run.
+
+Judged by Codex (gpt-6.1-sol), blind, the same judge as the xhigh row. Cost is a list estimate from the CLI's own token counts and likely reads low. Featured.
